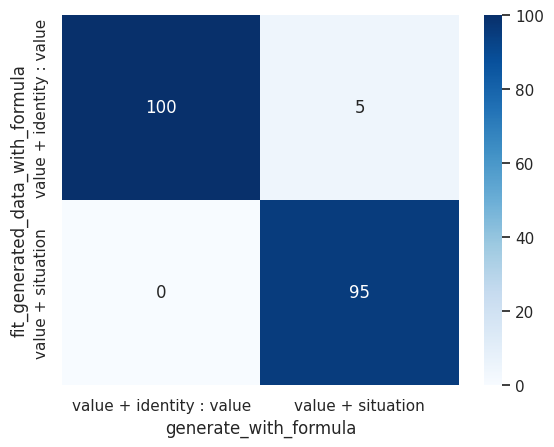
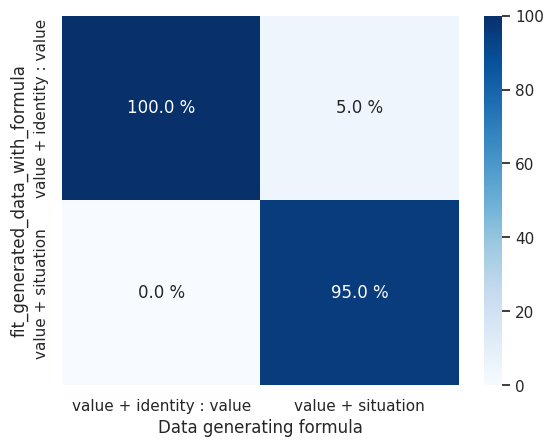
update 5 files

diff --git a/Simulations/neurons_analysis/utils.py b/Simulations/neurons_analysis/utils.py
@@ -786,13 +786,20 @@ def plot_confusion_matrix(df):
                     "count",
                 ] += 1
 
-    sns.heatmap(
+    confusion_matrix.rename(
+        columns={"generate_with_formula": "Data generating formula"}, inplace=True
+    )
+
+    ax = sns.heatmap(
         confusion_matrix.pivot(
             index="fit_generated_data_with_formula",
-            columns="generate_with_formula",
+            columns="Data generating formula",
             values="count",
         ),
         annot=True,
-        fmt="d",
+        fmt=".1f",
         cmap="Blues",
     )
+
+    for t in ax.texts:
+        t.set_text(t.get_text() + " %")
